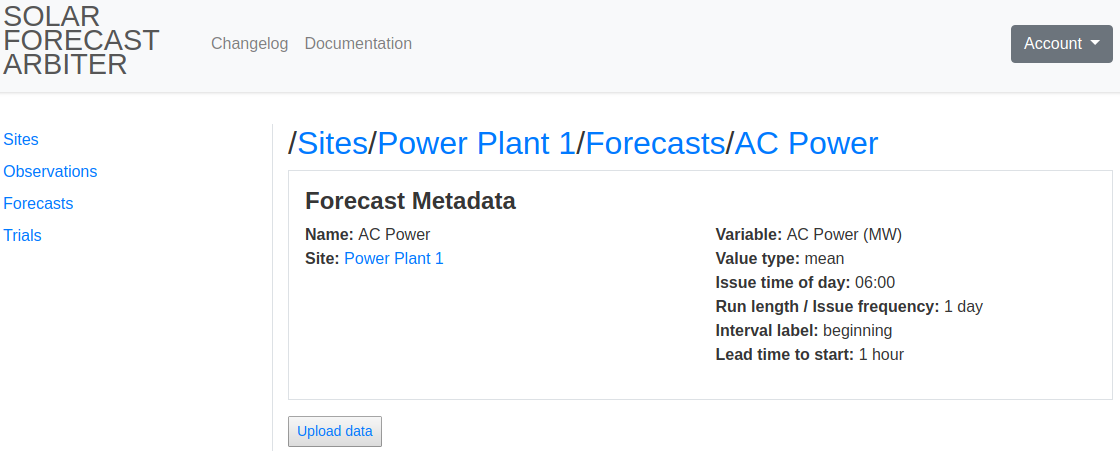
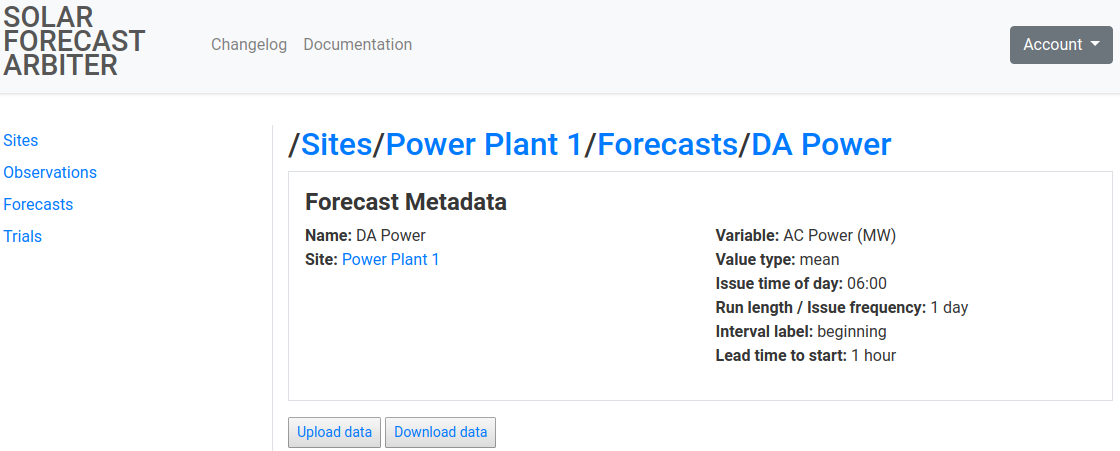
add download pages

diff --git a/_includes/dashboard_sidebar.html b/_includes/dashboard_sidebar.html
@@ -16,5 +16,9 @@
     
   </li>
   <li><a href="#download-data">Download Data</a></li>
+    <ul>
+	  <li><a href="#download-observation-data">Download Observation Data</a></li>
+	  <li><a href="#download-forecast-data">Download Forecast Data</a></li>
+	</ul>
 </ul>
 </div>

diff --git a/dashboarddoc.md b/dashboarddoc.md
@@ -81,7 +81,7 @@ Create New Observation or Forecast
 To create an Observation or Forecast, an associated site must already exist (see [Create New Site](#create-new-site)).
 
 ### Create New Observation
-{: anchor} 
+{: .anchor} 
 
 1.  Navigate to the Site listing page using the ‘Sites’ link in the left
 	sidebar. Select the site for which you are adding an Observation.
@@ -98,7 +98,7 @@ To create an Observation or Forecast, an associated site must already exist (see
 <img class="my-3" src="/images/observation.png"/>
 
 ### Create New Forecast
-{: anchor}
+{: .anchor}
 
 1.  Navigate to the Site listing page using the ‘Sites’ link in the left
 	sidebar. Select the site for which you are adding a Forecast.
@@ -129,7 +129,7 @@ Uploading data may be automated using the API, see
 for detailed documentation.
 
 ### Upload Observation Data
-{: anchor}
+{: .anchor}
 
 1.  From Sites listing page, click on a site.
 
@@ -147,7 +147,7 @@ format. Click ‘Choose File’ and select the data file to upload.
 	<img class="my-3" src="/images/obs_json_upload.png"/>
 
 ### Upload Forecast Data
-{: anchor}
+{: .anchor}
 
 1.  From Sites listing page, click on a site.
 
@@ -167,14 +167,40 @@ format. Click ‘Choose File’ and select the data file to upload.
 
 Download Data
 -------------
-The dashboard will include tools to allow users to download data from
-an Observation or Forecast page. Users will be able to select the time
-period for which to download data. The format and field names in
-the downloaded data will be the same as for data uploads. 
+{: .anchor}
 
+The instructions here will describe the process of
+downloading data using the dashboard.
 Users may also utilize the API to download data. See the
 [API documentation](https://dev-api.solarforecastarbiter.org/)
 for details.
 
+### Download Observation data
+{: .anchor}
+
+1.  From Sites listing page, click on a site.
+
+2.  Click ‘Observations’ to find the Observations listing for that site.
+
+3.  Select an Observation. Click ‘Download Data’ on the Observation page.
+
+4.  Specify a date range and format, and click download. Start and end
+	times must be in UTC. 
+
+	<img class="my-3" src="/images/obs_download.png">
+
+### Download Forecast data
+{: .anchor}
+
+1.  From Sites listing page, click on a site.
+
+2.  Click ‘Forecasts’ to find the Observations listing for that site.
+
+3.  Select a Forecast. Click ‘Download Data’ on the Forecast page.
+
+4.  Specify a date range and format, and click download. Start and end
+	times must be in UTC. 
+
+	<img class="my-3" src="/images/fx_download.png">
 
 <div class="my-3"></div>
